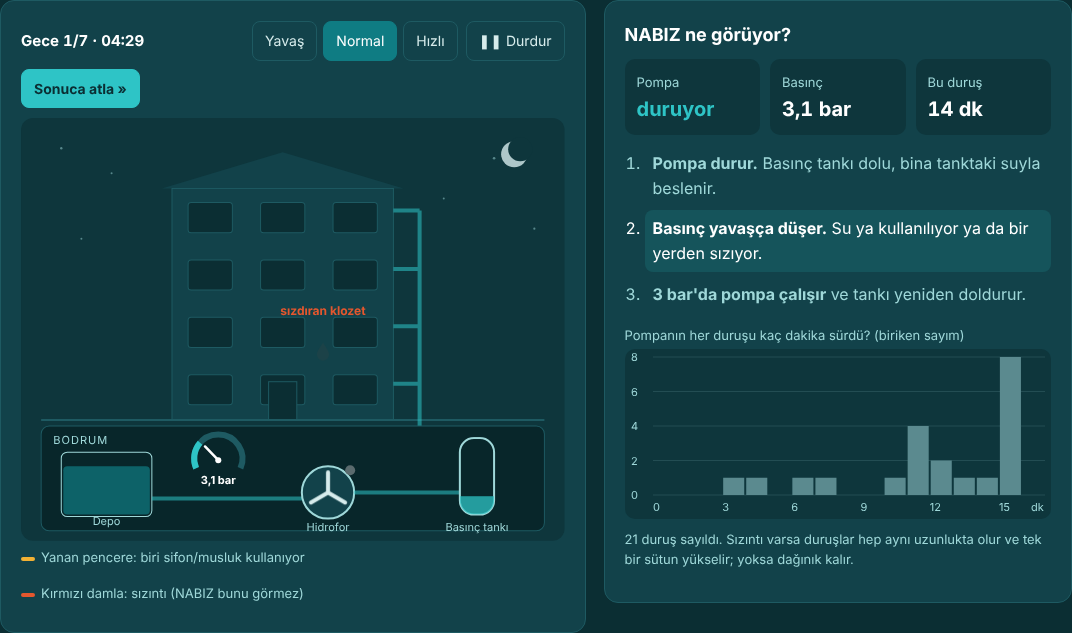
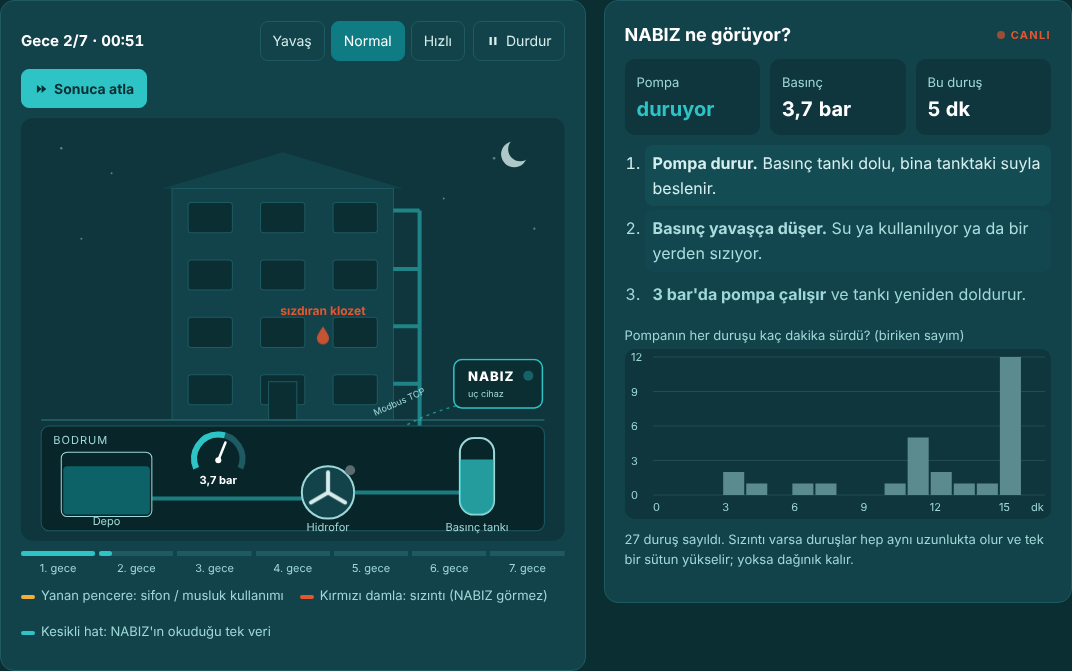
Site: polish prototype (NABIZ device and Modbus line, night progress, report card)
Claude-Session: https://claude.ai/code/session_01TQJpxwZaMGFtk8azDqdZuN

diff --git a/site/index.html b/site/index.html
@@ -93,6 +93,29 @@ ol.src li{margin-bottom:4px}
 .steps li.on{background:rgba(46,196,198,.14);color:#fff}
 .result{margin-top:18px;border-color:var(--aqua)}
 details summary{cursor:pointer;color:#fff;font-weight:600}
+.btn.icon{display:inline-flex;align-items:center;gap:6px}
+.btn.icon svg{width:14px;height:14px;fill:currentColor}
+.prog{display:grid;grid-template-columns:repeat(7,1fr);gap:4px;margin-top:10px}
+.prog span{display:block}
+.prog span>i{display:block;height:5px;border-radius:3px;background:var(--aqua);width:0}
+.prog span{background:linear-gradient(#1E5A62,#1E5A62) top/100% 5px no-repeat}
+.prog em{display:block;font-style:normal;font-size:11px;color:var(--muted);margin-top:4px;text-align:center}
+.livehead{display:flex;align-items:center;justify-content:space-between}
+.livebadge{font-size:11px;letter-spacing:.12em;color:var(--coral);display:inline-flex;align-items:center;gap:6px}
+.livebadge i{width:8px;height:8px;border-radius:50%;background:var(--coral);animation:blink 1.2s infinite}
+@keyframes blink{50%{opacity:.25}}
+.reporthead{display:flex;justify-content:space-between;align-items:flex-start;gap:12px;flex-wrap:wrap}
+.reporthead h3{font-size:26px;margin:4px 0 0}
+.verdict{font-size:12px;font-weight:700;padding:4px 12px;border-radius:999px;border:1px solid}
+.verdict.ok{color:var(--aqua);border-color:var(--aqua)} .verdict.bad{color:var(--coral);border-color:var(--coral)}
+.kpis{display:grid;grid-template-columns:repeat(auto-fit,minmax(150px,1fr));gap:10px;margin:16px 0}
+.kpi{background:#0E363C;border-radius:10px;padding:12px 14px}
+.kpi span{display:block;font-size:12px;color:var(--muted)}
+.kpi b{display:block;font-size:22px;color:#fff;margin:2px 0}
+.kpi.coral b{color:var(--coral)}
+.kpi small{color:var(--muted);font-size:12px}
+.advice{background:rgba(46,196,198,.08);border-radius:10px;padding:10px 14px}
+.reportfoot{display:flex;justify-content:space-between;align-items:center;gap:12px;flex-wrap:wrap;margin-top:10px}
 footer{padding:36px 0;font-size:13px;color:var(--muted)}
 </style>
 </head>
@@ -206,8 +229,8 @@ footer{padding:36px 0;font-size:13px;color:var(--muted)}
       <div class="scenebar">
         <span class="clock" id="clock">Gece 1/7 · 00:00</span>
         <span class="seg" id="speed"><button data-v="900">Yavaş</button><button data-v="2400" class="on">Normal</button><button data-v="9000">Hızlı</button></span>
-        <button class="btn" id="play">❚❚ Durdur</button>
-        <button class="btn primary" id="skip">Sonuca atla »</button>
+        <button class="btn icon" id="play"></button>
+        <button class="btn primary icon" id="skip"><svg viewBox="0 0 24 24"><path d="M5 5l8 7-8 7zM13 5l8 7-8 7z"/></svg>Sonuca atla</button>
       </div>
       <svg id="bld" viewBox="0 0 540 420" role="img" aria-label="Apartman ve bodrumdaki hidroforun animasyonlu kesiti">
         <defs>
@@ -230,6 +253,15 @@ footer{padding:36px 0;font-size:13px;color:var(--muted)}
           <text id="leaklabel" x="300" y="196" fill="#E4572E" font-size="12" font-weight="700" text-anchor="middle">sızıntı</text>
           <path class="drop d1" d="M300 202 c-4 6 -6 9 -6 12 a6 6 0 0 0 12 0 c0 -3 -2 -6 -6 -12z" fill="#E4572E"/>
         </g>
+        <!-- NABIZ edge device + Modbus data line -->
+        <path id="datapath" d="M322 350 Q 372 300 440 284" fill="none" stroke="#2EC4C6" stroke-width="1.5" stroke-dasharray="3 4" opacity=".6"/>
+        <text x="352" y="296" fill="#9FD8D9" font-size="9" transform="rotate(-24 352 296)">Modbus TCP</text>
+        <g id="packets"><circle r="3" fill="#2EC4C6"><animateMotion dur="1.4s" repeatCount="indefinite"><mpath href="#datapath"/></animateMotion></circle>
+          <circle r="3" fill="#2EC4C6"><animateMotion dur="1.4s" begin="0.7s" repeatCount="indefinite"><mpath href="#datapath"/></animateMotion></circle></g>
+        <rect x="430" y="240" width="88" height="48" rx="8" fill="#0B2E33" stroke="#2EC4C6" stroke-width="1.5"/>
+        <text x="444" y="261" fill="#fff" font-size="13" font-weight="800" letter-spacing="1">NABIZ</text>
+        <text x="444" y="277" fill="#9FD8D9" font-size="9">uç cihaz</text>
+        <circle id="nled" cx="504" cy="256" r="5" fill="#2EC4C6"><animate attributeName="opacity" values="1;.3;1" dur="1.4s" repeatCount="indefinite"/></circle>
         <!-- basement -->
         <rect x="20" y="306" width="500" height="104" rx="8" fill="#08262A" stroke="#1E5A62"/>
         <text x="32" y="324" fill="#9FD8D9" font-size="11" letter-spacing="1">BODRUM</text>
@@ -256,11 +288,12 @@ footer{padding:36px 0;font-size:13px;color:var(--muted)}
           <text id="gaugeTxt" y="24" fill="#fff" font-size="11" font-weight="700" text-anchor="middle">4.0 bar</text>
         </g>
       </svg>
-      <div class="legend" style="margin-top:6px"><span><i style="background:var(--amber)"></i>Yanan pencere: biri sifon/musluk kullanıyor</span><span><i style="background:var(--coral)"></i>Kırmızı damla: sızıntı (NABIZ bunu görmez)</span></div>
+      <div class="prog" id="prog"></div>
+      <div class="legend" style="margin-top:8px"><span><i style="background:var(--amber)"></i>Yanan pencere: sifon / musluk kullanımı</span><span><i style="background:var(--coral)"></i>Kırmızı damla: sızıntı (NABIZ görmez)</span><span><i style="background:var(--aqua)"></i>Kesikli hat: NABIZ'ın okuduğu tek veri</span></div>
     </div>
 
     <div class="card">
-      <h3>NABIZ ne görüyor?</h3>
+      <h3 class="livehead">NABIZ ne görüyor? <span class="livebadge"><i></i>CANLI</span></h3>
       <div class="live">
         <div><span class="small">Pompa</span><b id="lv-pump">–</b></div>
         <div><span class="small">Basınç</span><b id="lv-p">–</b></div>
@@ -457,6 +490,9 @@ let S={preset:'res20',lph:20,kind:'reservoir',use:1.5,tank:24,seed:1};
 let SIM=null, play={t:0,speed:2400,running:true,last:0,done:false,shown:0};
 const tl=l=>l*24*30/1000*(35.26+17.62);
 const f1=v=>v.toFixed(1).replace('.',',');
+const BTN={"pause": "<svg viewBox=\"0 0 24 24\"><path d=\"M6 5h4v14H6zM14 5h4v14h-4z\"/></svg>Durdur", "play": "<svg viewBox=\"0 0 24 24\"><path d=\"M7 5l12 7-12 7z\"/></svg>Devam", "replay": "<svg viewBox=\"0 0 24 24\"><path d=\"M12 5V2L7 6l5 4V7a5 5 0 1 1-5 5H5a7 7 0 1 0 7-7z\"/></svg>Baştan oynat"};
+function setPlay(k){$('play').innerHTML=BTN[k]}
+
 function seg(id,cb){document.querySelectorAll('#'+id+' button').forEach(bt=>bt.onclick=()=>{document.querySelectorAll('#'+id+' button').forEach(o=>o.classList.remove('on'));bt.classList.add('on');cb(bt.dataset.v)})}
 function buildSim(){
   const b=building(S.tank),cal=calibrate(b,9000+S.tank);
@@ -469,6 +505,8 @@ function buildSim(){
   play.t=0;play.done=false;play.shown=-1;$('result').hidden=true;
   $('leakmark').style.display=S.lph>0?'':'none';
   $('leaklabel').textContent=S.kind==='reservoir'?'sızdıran klozet':'boru sızıntısı';
+  $('nled').setAttribute('fill','#2EC4C6');
+  $('prog').innerHTML=Array.from({length:7},(_,k)=>`<span><i></i><em>${k+1}. gece</em></span>`).join('');
   drawNight(nights[0]);drawHist(0,false)}
 function fmtMin(s){return s<90?`${Math.round(s)} sn`:`${Math.round(s/60)} dk`}
 function frame(now){
@@ -481,6 +519,7 @@ function frame(now){
   const hh=Math.floor(i/3600),mm=Math.floor(i%3600/60);
   $('clock').textContent=`Gece ${j+1}/7 · 0${hh}:${String(mm).padStart(2,'0')}`;
   setGauge(p);setTank(p);setWin(n.win[i]);
+  $('prog').querySelectorAll('i').forEach((el,k)=>{el.style.width=(k<j?100:k>j?0:100*i/NIGHT_S)+'%'});
   $('scene').classList.toggle('running',run);
   $('lv-pump').textContent=run?'ÇALIŞIYOR':'duruyor';$('lv-pump').style.color=run?'#E4572E':'#2EC4C6';
   $('lv-p').textContent=f1(p)+' bar';
@@ -506,38 +545,46 @@ function drawHist(count,reveal){
   for(let k=0;k<nb;k+=lab)x.fillText(`${k*bw}`,L+k*bwPx,h-8);x.fillText('dk',w-20,h-8);
   $('histnote').textContent=reveal?(SIM.e.q>0?`Vurgulanan sütun: 7 gecede ${SIM.e.cl.length} duruş aynı uzunlukta (≈${Math.round(SIM.e.tmed/60)} dk) tekrar etti. Bu düzen sızıntının izi.`:`7 gecede ${SIM.e.n} duruş oldu ama uzunlukları dağınık; tekrar eden bir ritim yok.`)
     :`${count} duruş sayıldı. Sızıntı varsa duruşlar hep aynı uzunlukta olur ve tek bir sütun yükselir; yoksa dağınık kalır.`}
-function finish(){play.done=true;play.running=false;$('play').textContent='▶ Baştan oynat';
+function finish(){play.done=true;play.running=false;setPlay('replay');$('nled').setAttribute('fill',SIM.e.q>0?'#E4572E':'#2EC4C6');
   play.shown=-1;drawHist(SIM.done.length,true);showResult()}
 function showResult(){const e=SIM.e,r=$('result');r.hidden=false;
   const truth=S.lph>0?`${S.lph} L/sa, ${S.kind==='reservoir'?'klozet rezervuarı':'boru / bağlantı'}`:'sızıntı yok';
-  let head,sub,src='';
-  if(e.q>0){const m3=e.q*24*30/1000;
-    head=`Gece saatte ≈ <b>${f1(e.q)} L</b> su sızıyor`;
-    sub=`Ayda ≈ ${f1(m3)} m³ su, ≈ <b>${Math.round(tl(e.q))} TL</b> (İSKİ Ocak 2026 konut tarifesi, su + atıksu).`;
-    if(e.type)src=e.type.kind==='reservoir'?`<p><b>Olası kaynak: klozet rezervuarı.</b> Basınç basamak basamak ve basınçtan bağımsız düşüyor; rezervuar suyu darbelerle çekiyor. Önce klozetlere bakılmalı.</p>`
-      :`<p><b>Olası kaynak: boru veya bağlantı.</b> Basınç yüksekken daha hızlı sızıyor; bu basınçla akan bir delik ya da gevşek bağlantının izi.</p>`;
-  }else{head='Düzenli bir sızıntı izi yok';sub=`7 gecede ${e.n} duruş vardı, ama uzunlukları dağınık: bunlar sifon ve musluk kullanımı.`}
   const ok=(e.q>0)===(S.lph>0)&&(!e.type||!S.lph||e.type.kind===S.kind);
-  r.innerHTML=`<div class="tag">Sonuç · NABIZ'ın yöneticiye mesajı</div><h3 style="font-size:24px">${head}</h3><p>${sub}</p>${src}
-  <table style="margin-top:10px"><tr><th>Yöntem</th><th>Ne dedi</th></tr>
-  <tr><td>Simülasyondaki gerçek durum (NABIZ bunu görmüyor)</td><td>${truth}</td></tr>
-  <tr class="hl"><td>NABIZ (7 gece, duruş ritmi)</td><td>${e.q>0?f1(e.q)+' L/sa'+(e.type?', '+(e.type.kind==='reservoir'?'klozet':'boru'):''):'sızıntı yok'} ${ok?'✓':'✗'}</td></tr>
-  <tr><td>Basit hesap: pompanın bastığı su / süre</td><td>${f1(SIM.naive)} L/sa: gece kullanımını da sızıntı sayıyor</td></tr>
-  <tr><td>Pompanın kendi debi göstergesi</td><td>0 L/sa: 100 L/sa'lik adımla ölçtüğü için gece sızıntıyı görmüyor</td></tr></table>
-  <p class="note">Tek bir senaryo; şans payı var. "Yeni gece verisi" ile başka bir hafta deneyebilirsin. 260 koşuluk test sonuçları aşağıda.</p>
-  <button class="btn" id="again">↻ Yeni gece verisi</button>`;
-  $('again').onclick=()=>{S.seed++;buildSim();play.running=true;$('play').textContent='❚❚ Durdur'}}
+  const tile=(k,v,sub,cls='')=>`<div class="kpi ${cls}"><span>${k}</span><b>${v}</b><small>${sub}</small></div>`;
+  let head,tiles,advice;
+  if(e.q>0){const m3=e.q*24*30/1000;
+    head=`Gece saatte ≈ ${f1(e.q)} L su sızıyor`;
+    tiles=tile('Sızıntı',`${f1(e.q)} L/sa`,'gece ortalaması','coral')+tile('Aylık kayıp',`${f1(m3)} m³`,`≈ ${Math.round(m3*1000/146)} kişinin günlük suyu`)
+      +tile('Aylık maliyet',`≈ ${Math.round(tl(e.q))} TL`,'İSKİ Oca 2026, su + atıksu')
+      +tile('Olası kaynak',e.type?(e.type.kind==='reservoir'?'Klozet':'Boru / bağlantı'):'belirsiz',e.type?(e.type.p>=0.995?'model güveni %99+':`model güveni %${Math.round(e.type.p*100)}`):'model yüklenemedi')
+      +tile('Kanıt',`${e.cl.length} duruş`,`${e.nn} gecede ≈${Math.round(e.tmed/60)} dk ritim`);
+    advice=e.type&&e.type.kind==='reservoir'?'<b>Öneri:</b> Tesisatçı önce klozet rezervuarlarını kontrol etsin; basınç basamak basamak ve basınçtan bağımsız düşüyor, bu darbeli dolumun izi.'
+      :'<b>Öneri:</b> Tesisatçı görünür boruları ve bağlantıları kontrol etsin; sızıntı yüksek basınçta hızlanıyor, bu bir delik ya da gevşek bağlantının izi.';
+  }else{head='Düzenli bir sızıntı izi yok';
+    tiles=tile('Sızıntı','yok','tekrar eden ritim bulunmadı')+tile('Gece duruşu',`${e.n}`,'7 gecede toplam')+tile('Neden','dağınık','duruşlar sifon/musluğa göre değişiyor');
+    advice='<b>Öneri:</b> İşlem gerekmiyor. NABIZ her gece dinlemeye devam eder; ritim belirirse haber verir.'}
+  r.innerHTML=`<div class="reporthead"><div><div class="tag">Haftalık rapor · NABIZ'ın yöneticiye mesajı</div><h3>${head}</h3></div>
+    <span class="verdict ${ok?'ok':'bad'}">${ok?'Doğru tespit':'Hatalı tespit'}</span></div>
+  <div class="kpis">${tiles}</div><p class="advice">${advice}</p>
+  <table><tr><th>Kim ne gördü?</th><th>Sonuç</th></tr>
+  <tr><td>Simülasyondaki gerçek durum <span class="small">(NABIZ bunu bilmiyor)</span></td><td>${truth}</td></tr>
+  <tr class="hl"><td>NABIZ: 7 gecenin duruş ritmi</td><td>${e.q>0?f1(e.q)+' L/sa'+(e.type?', '+(e.type.kind==='reservoir'?'klozet':'boru'):''):'sızıntı yok'}</td></tr>
+  <tr><td>Basit hesap: pompanın bastığı su / süre</td><td>${f1(SIM.naive)} L/sa <span class="small">gece kullanımını da sızıntı sayıyor</span></td></tr>
+  <tr><td>Pompanın kendi debi göstergesi</td><td>0 L/sa <span class="small">100 L/sa'lik adımla ölçüyor</span></td></tr></table>
+  <div class="reportfoot"><span class="note">Tek bir senaryo; şans payı var. 260 koşuluk test sonuçları aşağıda.</span>
+  <button class="btn icon" id="again"><svg viewBox="0 0 24 24"><path d="M12 5V2L7 6l5 4V7a5 5 0 1 1-5 5H5a7 7 0 1 0 7-7z"/></svg>Yeni gece verisi</button></div>`;
+  $('again').onclick=()=>{S.seed++;buildSim();play.running=true;setPlay('pause')}}
 
 // ---------- controls ----------
 seg('preset',v=>{S.preset=v;$('custom').hidden=v!=='custom';
   if(v!=='custom'){Object.assign(S,PRESETS[v],{use:1.5,tank:24})}else{S.lph=+$('leak').value;S.use=+$('use').value}
-  buildSim();play.running=true;$('play').textContent='❚❚ Durdur'});
+  buildSim();play.running=true;setPlay('pause')});
 seg('kind',v=>{S.kind=v;buildSim()});seg('tank',v=>{S.tank=+v;buildSim()});
 seg('speed',v=>{play.speed=+v});
 $('leak').oninput=e=>{$('v-leak').textContent=e.target.value};$('leak').onchange=e=>{S.lph=+e.target.value;buildSim()};
 $('use').oninput=e=>{$('v-use').textContent=(+e.target.value).toFixed(1)};$('use').onchange=e=>{S.use=+e.target.value;buildSim()};
 $('play').onclick=()=>{if(play.done){play.t=0;play.done=false;play.shown=-1;$('result').hidden=true}
-  play.running=!play.running;$('play').textContent=play.running?'❚❚ Durdur':'▶ Devam'};
+  play.running=!play.running;setPlay(play.running?'pause':'play')};
 $('skip').onclick=()=>{play.t=7*NIGHT_S-1;finish()};
 document.querySelector('#kacak details').addEventListener('toggle',()=>SIM&&drawNight(SIM.nights[0]));
 // start playing when the section scrolls into view
@@ -575,6 +622,7 @@ async function loadResults(){
   }catch(e){$('depo').querySelector('p').insertAdjacentHTML('afterend','<p class="pill">Sonuç dosyaları yüklenemedi. Sayfayı bir web sunucusundan açın.</p>')}
 }
 window.addEventListener('resize',()=>{if(SIM){play.shown=-1;drawNight(SIM.nights[0])}drawWeek()});
+setPlay('pause');
 loadResults().finally(()=>{buildSim();requestAnimationFrame(frame)});
 </script>
 </body>
